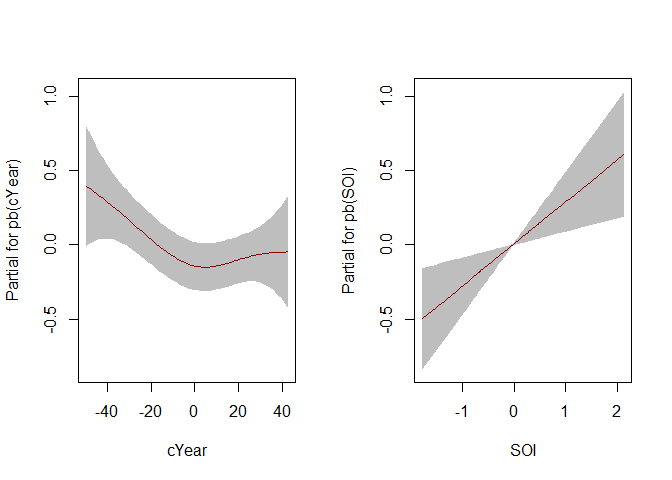
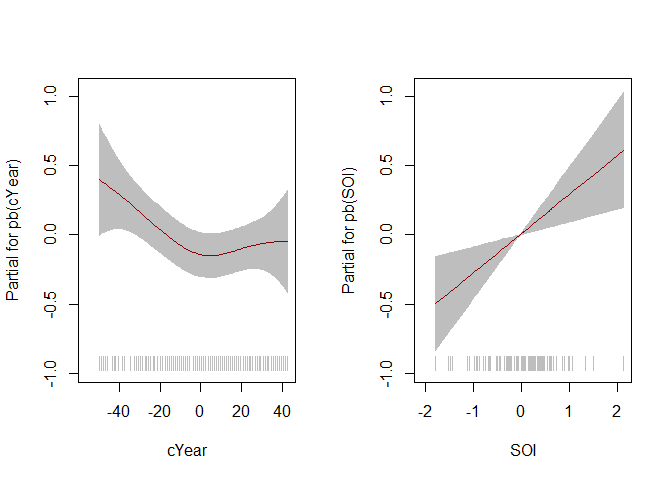
Explain why gamlssx is better

diff --git a/docs/index.html b/docs/index.html
@@ -69,7 +69,8 @@
 <div class="section level2">
 <h2 id="generalised-additive-extreme-value-models-for-location-scale-and-shape">Generalised Additive Extreme Value Models for Location, Scale and Shape<a class="anchor" aria-label="anchor" href="#generalised-additive-extreme-value-models-for-location-scale-and-shape"></a>
 </h2>
-<p>The main aim of the <code>gamlssx</code> package is to enable a generalized extreme value (GEV) to be used as the response distribution in a generalized additive model for location scale and shape (GAMLSS), as implemented in the <a href="https://cran.r-project.org/package=gamlss" class="external-link"><code>gamlss</code> R package</a>. See <a href="https://doi.org/10.1111%2Fj.1467-9876.2005.00510.x" class="external-link">Rigby and Stasinopoulos (2005)</a> and the <a href="https://www.gamlss.com/" class="external-link">gamlss home page</a> for details of the methodology. See also Gavin Simpson’s blog post <a href="https://fromthebottomoftheheap.net/2017/01/25/modelling-extremes-with-gams/" class="external-link">Modelling extremes using generalized additive models</a> for an overview of the use of GAMs for modelling extreme values, which uses the <a href="https://cran.r-project.org/package=mgcv" class="external-link">mgcv R package</a> to fit similar models and notes that the <a href="https://cran.r-project.org/package=VGAM" class="external-link">VGAM R package</a> can also be used.</p>
+<p>The main aim of the <code>gamlssx</code> package is to enable a generalized extreme value (GEV) to be used as the response distribution in a generalized additive model for location scale and shape (GAMLSS), as implemented in the <a href="https://cran.r-project.org/package=gamlss" class="external-link"><code>gamlss</code> R package</a>. The <a href="https://cran.r-project.org/package=gamlss.dist" class="external-link"><code>gamlss.dist</code> R package</a> packge does offer reversed GEV distribution via in <code>RGE</code> family, but (a) this is not the usual parameterization of a GEV distribution (for block maxima), and (b) in <code>RGE</code>, the shape parameter is restricted to have a particular sign, which is undesirable. The <code>gamlssx</code> package uses the usual parameterization and only restricts the shape parameter <span class="math inline"><em>ξ</em></span> to be greater than <span class="math inline"> − 1/2</span>, which is necessary for the usual likelihood theory to be applicable.</p>
+<p>See <a href="https://doi.org/10.1111%2Fj.1467-9876.2005.00510.x" class="external-link">Rigby and Stasinopoulos (2005)</a> and the <a href="https://www.gamlss.com/" class="external-link">gamlss home page</a> for details of the GAMLSS methodology. See also Gavin Simpson’s blog post <a href="https://fromthebottomoftheheap.net/2017/01/25/modelling-extremes-with-gams/" class="external-link">Modelling extremes using generalized additive models</a> for an overview of the use of GAMs for modelling extreme values, which uses the <a href="https://cran.r-project.org/package=mgcv" class="external-link">mgcv R package</a> to fit similar models and notes that the <a href="https://cran.r-project.org/package=VGAM" class="external-link">VGAM R package</a> can also be used.</p>
 </div>
 <div class="section level2">
 <h2 id="an-example">An example<a class="anchor" aria-label="anchor" href="#an-example"></a>
@@ -183,7 +184,7 @@
 <span><span class="fu"><a href="https://rdrr.io/pkg/gamlss/man/term.plot.html" class="external-link">term.plot</a></span><span class="op">(</span><span class="va">mod</span>, rug <span class="op">=</span> <span class="cn">TRUE</span>, pages <span class="op">=</span> <span class="fl">1</span><span class="op">)</span></span></code></pre></div>
 <p><img src="reference/figures/README-unnamed-chunk-2-4.png" width="100%"></p>
 <div class="sourceCode" id="cb8"><pre class="downlit sourceCode r">
-<code class="sourceCode R"><span><span class="fu"><a href="https://rdrr.io/pkg/gamlss/man/term.plot.html" class="external-link">term.plot</a></span><span class="op">(</span><span class="va">mod</span>, what <span class="op">=</span> <span class="st">"sigma"</span>, pages <span class="op">=</span> <span class="fl">1</span><span class="op">)</span></span></code></pre></div>
+<code class="sourceCode R"><span><span class="fu"><a href="https://rdrr.io/pkg/gamlss/man/term.plot.html" class="external-link">term.plot</a></span><span class="op">(</span><span class="va">mod</span>, what <span class="op">=</span> <span class="st">"sigma"</span>, rug <span class="op">=</span> <span class="cn">TRUE</span>, pages <span class="op">=</span> <span class="fl">1</span><span class="op">)</span></span></code></pre></div>
 <p><img src="reference/figures/README-unnamed-chunk-2-5.png" width="100%"></p>
 </div>
 <div class="section level2">

diff --git a/README.md b/README.md
@@ -19,10 +19,20 @@ Status](https://codecov.io/github/paulnorthrop/gamlssx/coverage.svg?branch=maste
 The main aim of the `gamlssx` package is to enable a generalized extreme
 value (GEV) to be used as the response distribution in a generalized
 additive model for location scale and shape (GAMLSS), as implemented in
-the [`gamlss` R package](https://cran.r-project.org/package=gamlss). See
-[Rigby and Stasinopoulos
+the [`gamlss` R package](https://cran.r-project.org/package=gamlss). The
+[`gamlss.dist` R
+package](https://cran.r-project.org/package=gamlss.dist) packge does
+offer reversed GEV distribution via in `RGE` family, but (a) this is not
+the usual parameterization of a GEV distribution (for block maxima), and
+(b) in `RGE`, the shape parameter is restricted to have a particular
+sign, which is undesirable. The `gamlssx` package uses the usual
+parameterization and only restricts the shape parameter $\xi$ to be
+greater than $-1/2$, which is necessary for the usual likelihood theory
+to be applicable.
+
+See [Rigby and Stasinopoulos
 (2005)](https://doi.org/10.1111%2Fj.1467-9876.2005.00510.x) and the
-[gamlss home page](https://www.gamlss.com/) for details of the
+[gamlss home page](https://www.gamlss.com/) for details of the GAMLSS
 methodology. See also Gavin Simpson’s blog post [Modelling extremes
 using generalized additive
 models](https://fromthebottomoftheheap.net/2017/01/25/modelling-extremes-with-gams/)
@@ -177,7 +187,7 @@ term.plot(mod, rug = TRUE, pages = 1)
 <img src="man/figures/README-unnamed-chunk-2-4.png" width="100%" />
 
 ``` r
-term.plot(mod, what = "sigma", pages = 1)
+term.plot(mod, what = "sigma", rug = TRUE, pages = 1)
 ```
 
 <img src="man/figures/README-unnamed-chunk-2-5.png" width="100%" />
